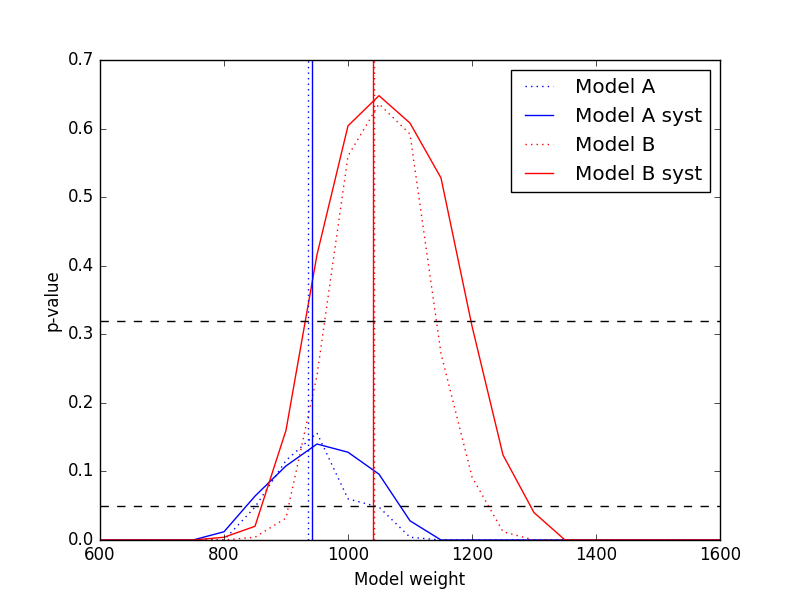
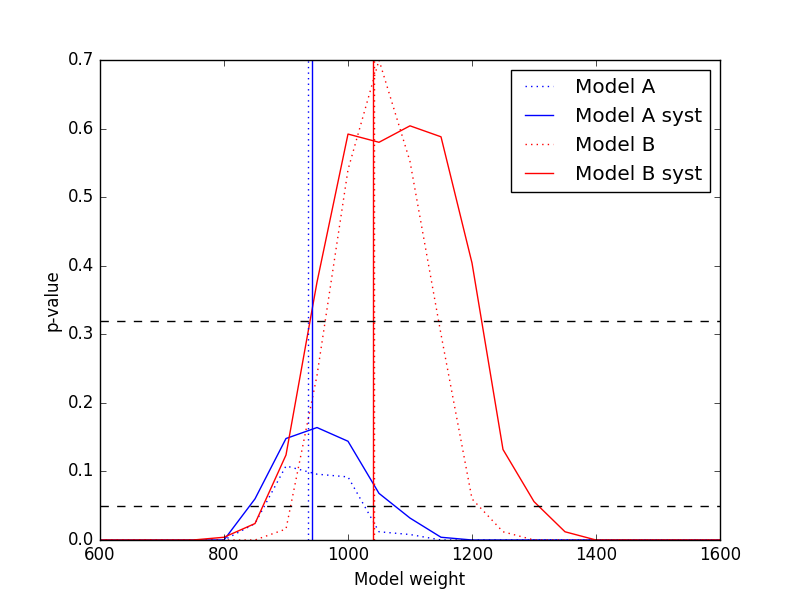
Remove nested=False from example.

diff --git a/docs/examples/03/fit_models.py b/docs/examples/03/fit_models.py
@@ -106,10 +106,10 @@ values = np.linspace(600, 1600, 21)
 for v in values:
     fixed_model_A = modelA_shape.fix_parameters((v,))
     fixed_model_B = modelB_shape.fix_parameters((v,))
-    A = lm.max_likelihood_ratio_p_value(fixed_model_A, modelA_shape, nproc=4, nested=False)
-    A_syst = lm_syst.max_likelihood_ratio_p_value(fixed_model_A, modelA_shape, nproc=4, nested=False)
-    B = lm.max_likelihood_ratio_p_value(fixed_model_B, modelB_shape, nproc=4, nested=False)
-    B_syst = lm_syst.max_likelihood_ratio_p_value(fixed_model_B, modelB_shape, nproc=4, nested=False)
+    A = lm.max_likelihood_ratio_p_value(fixed_model_A, modelA_shape, nproc=4)
+    A_syst = lm_syst.max_likelihood_ratio_p_value(fixed_model_A, modelA_shape, nproc=4)
+    B = lm.max_likelihood_ratio_p_value(fixed_model_B, modelB_shape, nproc=4)
+    B_syst = lm_syst.max_likelihood_ratio_p_value(fixed_model_B, modelB_shape, nproc=4)
     print_(v, A, A_syst, B, B_syst)
     p_values_A.append(A)
     p_values_B.append(B)

diff --git a/docs/examples/03/README.rst b/docs/examples/03/README.rst
@@ -314,13 +314,13 @@ Finally, let us construct confidence intervals of the template weights, *assumin
         fixed_model_A = modelA_shape.fix_parameters((v,))
         fixed_model_B = modelB_shape.fix_parameters((v,))
         A = lm.max_likelihood_ratio_p_value(fixed_model_A, modelA_shape,
-            nproc=4, nested=False)
+            nproc=4)
         A_syst = lm_syst.max_likelihood_ratio_p_value(fixed_model_A,
-            modelA_shape, nproc=4, nested=False)
+            modelA_shape, nproc=4)
         B = lm.max_likelihood_ratio_p_value(fixed_model_B, modelB_shape,
-            nproc=4, nested=False)
+            nproc=4)
         B_syst = lm_syst.max_likelihood_ratio_p_value(fixed_model_B,
-            modelB_shape, nproc=4, nested=False)
+            modelB_shape, nproc=4)
         print_(v, A, A_syst, B, B_syst)
         p_values_A.append(A)
         p_values_B.append(B)
